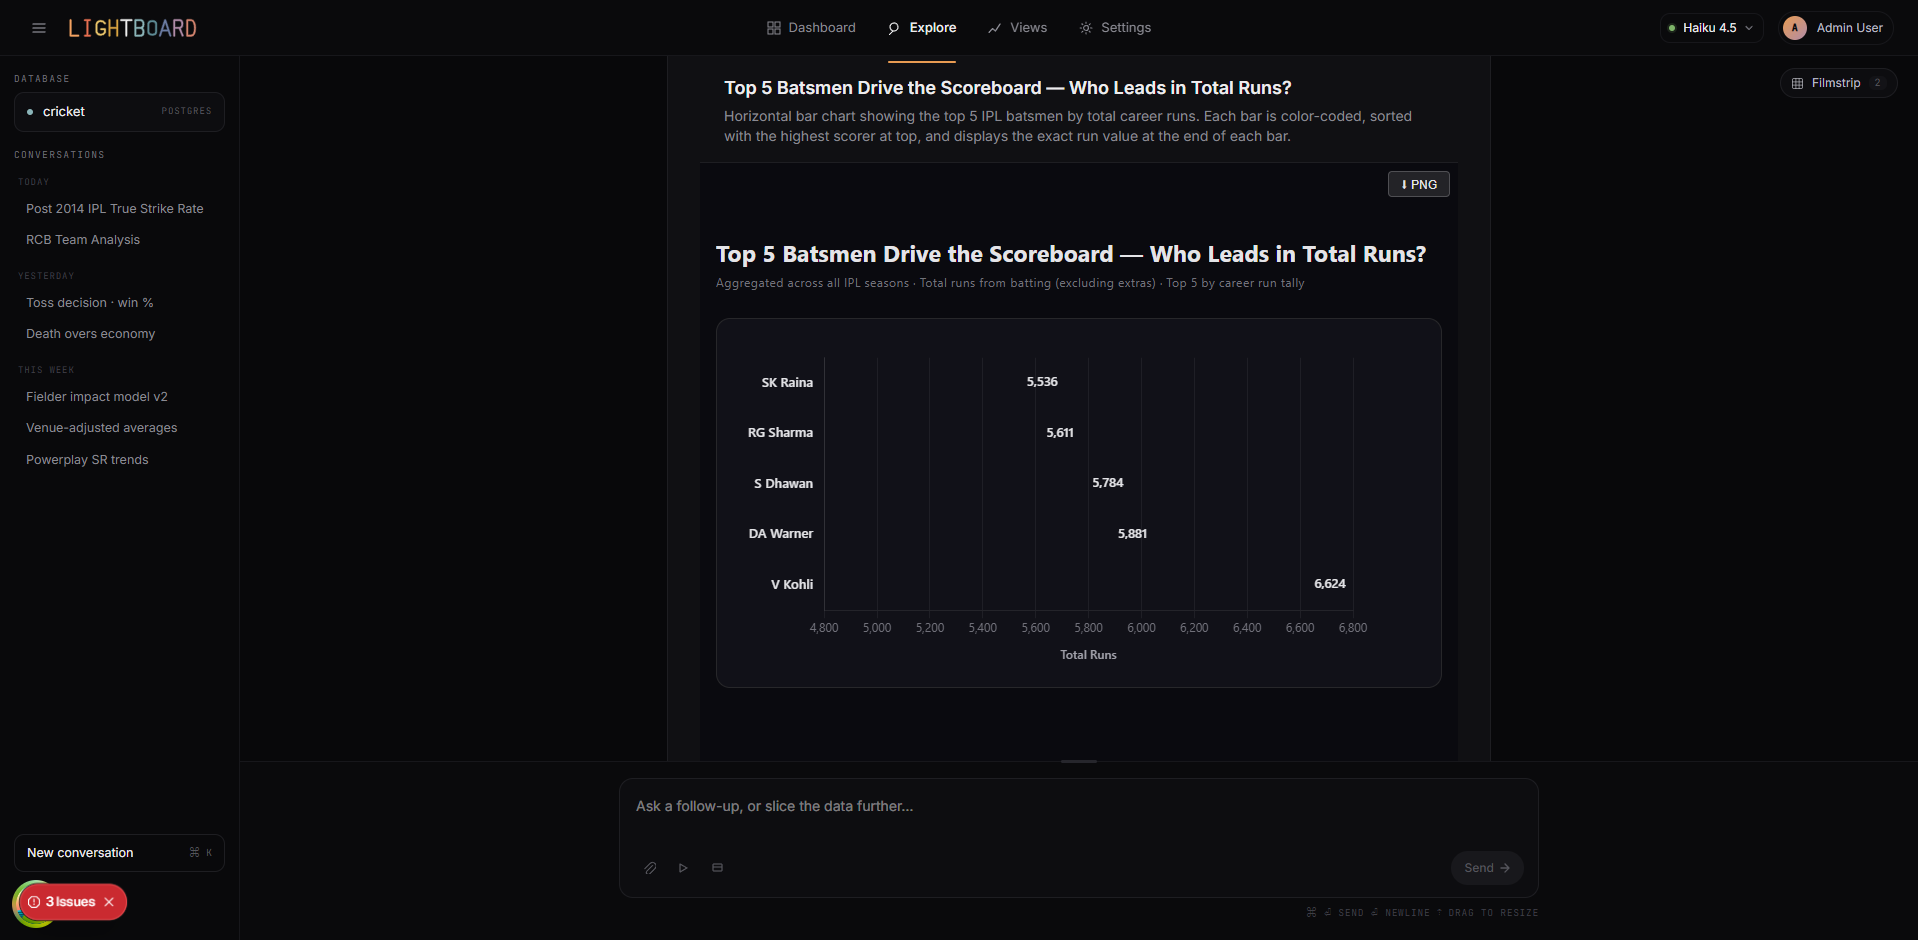
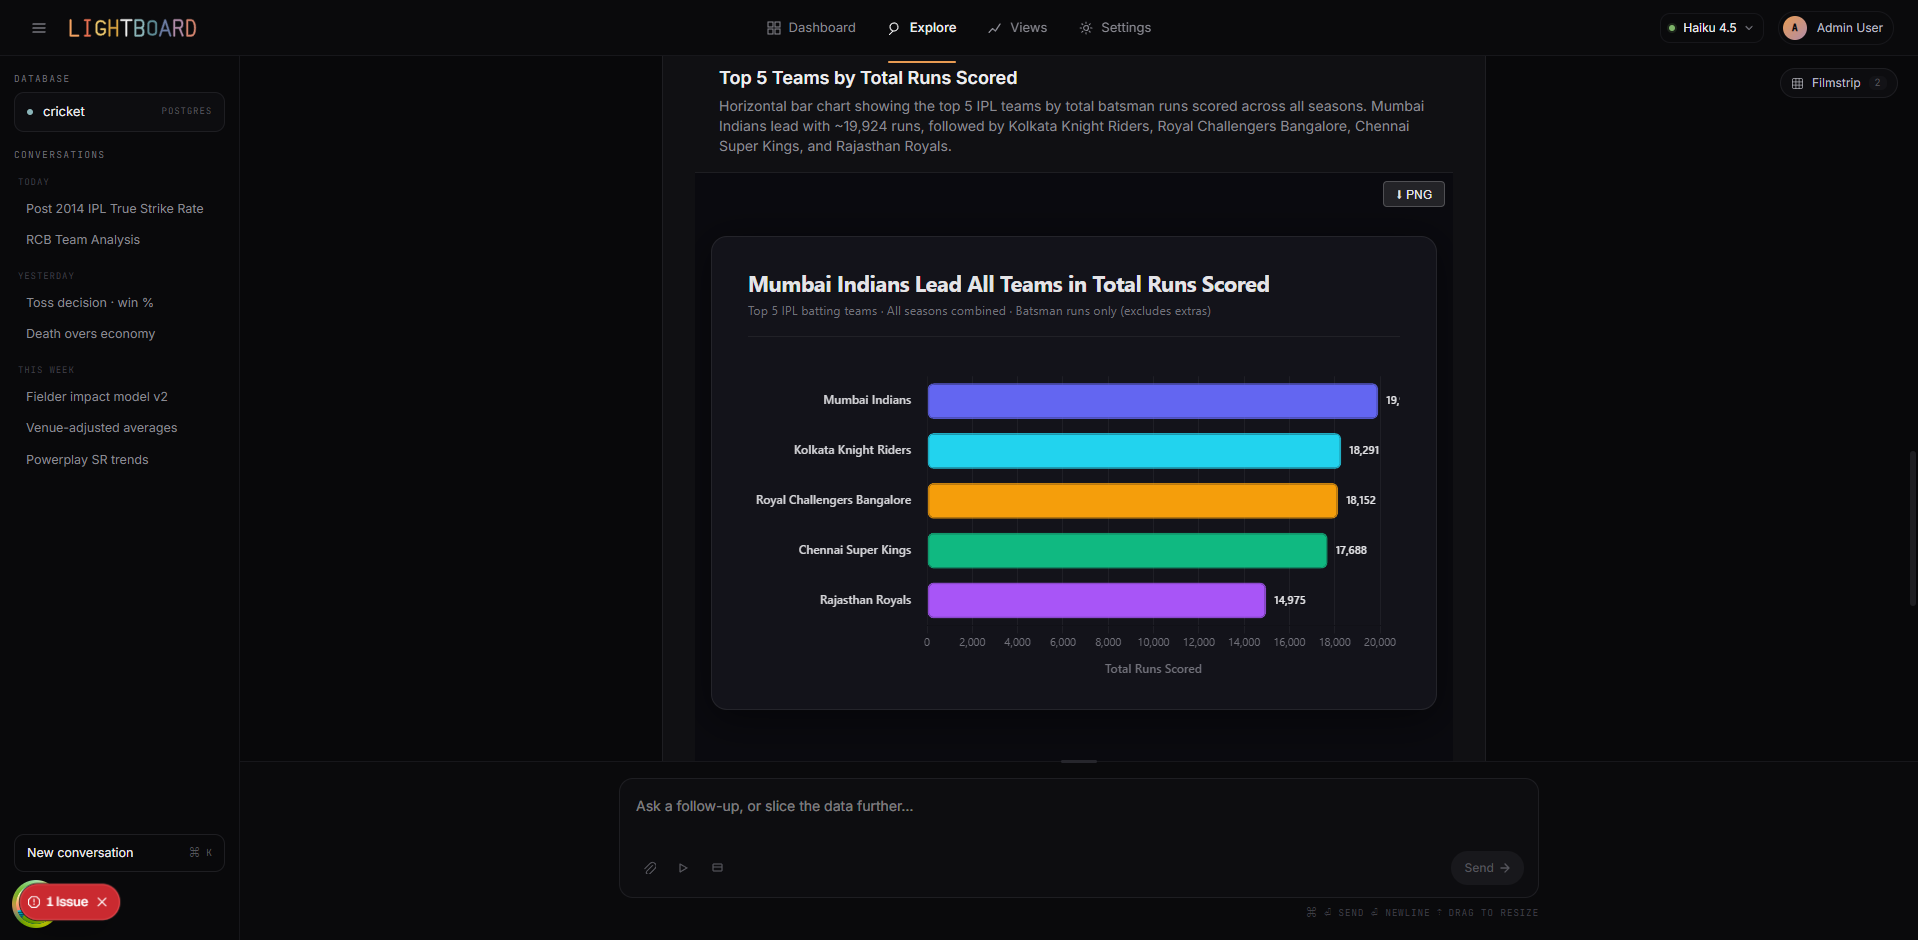
docs(readme): fix hero screenshot + highlight model flexibility
The previous hero screenshot rendered with invisible bars (a bad frame
from an earlier capture). Swap to the team-totals chart where every
coloured bar is fully drawn, and give the first feature tile its own
screenshot showing the follow-up suggestion chips so the hero does not
repeat one row below itself.

Add a "Bring your own model" differentiator under Why Lightboard: any
OpenAI-compatible endpoint works, and we actively tune against Claude
Sonnet 4.6 and local Qwen 3.6 35b so the same product runs on the
frontier and on a single workstation.

diff --git a/README.md b/README.md
@@ -11,7 +11,7 @@ Lightboard turns a natural-language question into a branded, narrated visualizat
 </p>
 
 <p align="center">
-  <img src="./docs/screenshots/hero-explore.png" alt="Exploring an IPL cricket dataset in Lightboard — the sidebar lists saved conversations, the main panel shows a bar chart of top batsmen by total runs, and the filmstrip chip at the top right counts generated views." />
+  <img src="./docs/screenshots/hero-explore.png" alt="Exploring an IPL cricket dataset in Lightboard — the sidebar lists saved conversations, the main panel renders a multi-coloured bar chart of top teams by total runs with a magazine-style headline and subtitle, and a filmstrip chip at the top right counts generated views." />
 </p>
 
 ## What it does
@@ -23,9 +23,9 @@ Pick a data source, ask a question, and Lightboard answers with a full editorial
 <table>
 <tr>
 <td width="50%" valign="top">
-<img src="./docs/screenshots/hero-explore.png" alt="Natural-language exploration" /><br/>
+<img src="./docs/screenshots/feature-exploration.png" alt="Natural-language exploration" /><br/>
 <strong>Natural-language exploration</strong><br/>
-Ask in English. Lightboard writes the SQL, runs it on your database, and renders an interactive chart — no spreadsheet in between.
+Ask in English. Lightboard writes the SQL, runs it on your database, and renders an interactive chart — with follow-up chips queued up for your next question.
 </td>
 <td width="50%" valign="top">
 <img src="./docs/screenshots/feature-narration.png" alt="Narrated takeaways" /><br/>
@@ -50,6 +50,7 @@ Every chart you generate in a session stays one click away in the filmstrip — 
 ## Why Lightboard
 
 - **AI-native by design.** A multi-agent system — a leader plus query, view, and insights specialists — writes the SQL, designs the chart, and narrates the finding. It is not a chatbot bolted onto a dashboard.
+- **Bring your own model.** Works with Anthropic Claude or any OpenAI-compatible endpoint — cloud or local. Actively tuned against Claude Sonnet 4.6 and local Qwen 3.6 35b, so it runs equally well on the frontier or on a single workstation.
 - **Opinionated visuals.** The agent emits a complete, sandboxed HTML document per view. No chart-config UI, no color-picker rabbit holes — the output *is* the config.
 - **Deploy anywhere.** The same codebase runs as cloud SaaS, single-node Docker, or a fully airgapped Kubernetes install with a local LLM. No telemetry, no mandatory calls home.
 - **Pure TypeScript monorepo.** No AGPL, no Go, no JVM. One `pnpm install` and you are running.
